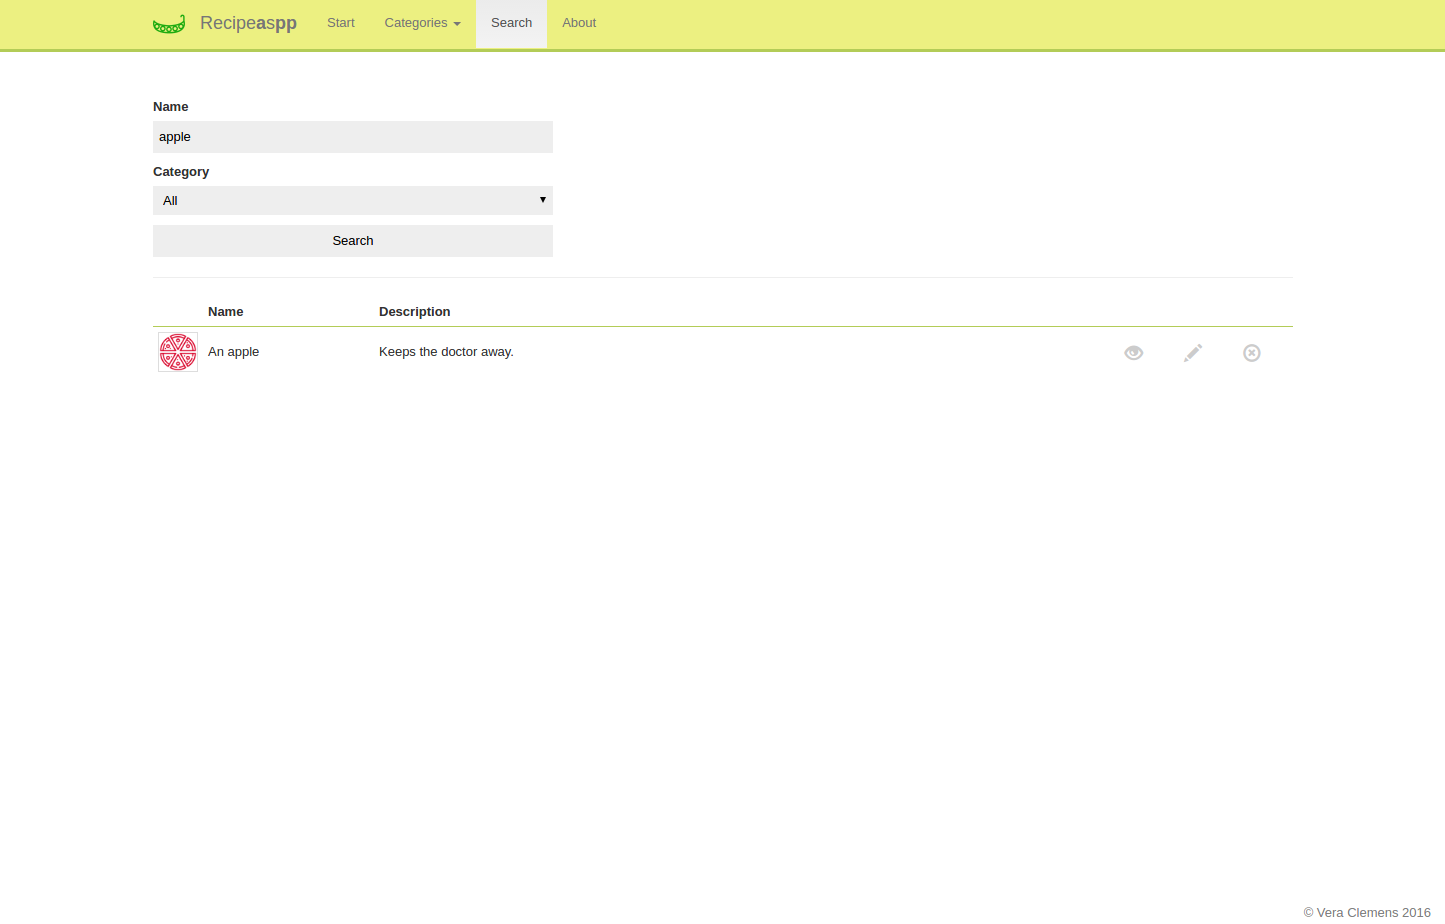
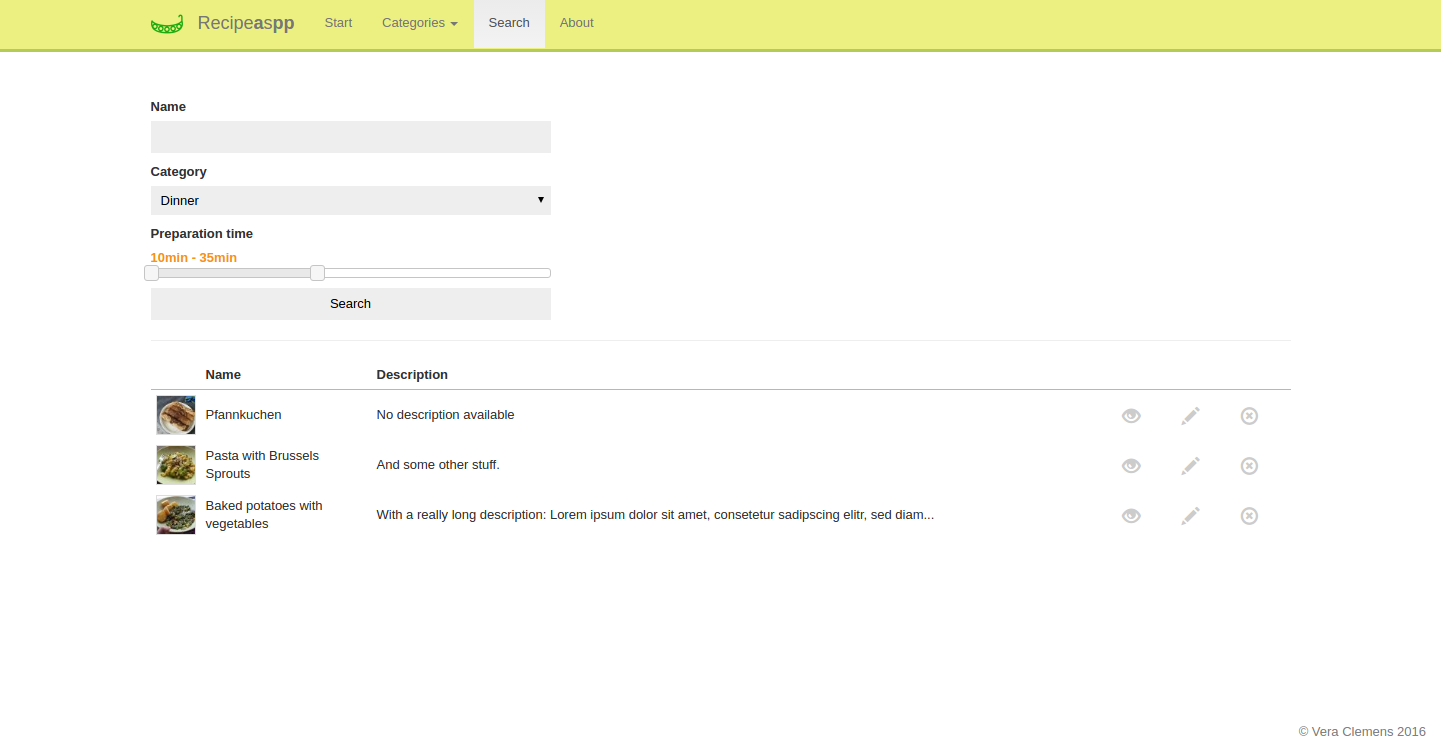
Add preparation time slider to search

diff --git a/app/assets/stylesheets/application.scss b/app/assets/stylesheets/application.scss
@@ -34,6 +34,10 @@ input, textarea, select {
   width: 400px;
 }
 
+#slider {
+  width: 400px;
+}
+
 textarea {
   height: 250px;
 }

diff --git a/app/controllers/pages_controller.rb b/app/controllers/pages_controller.rb
@@ -1,9 +1,24 @@
 class PagesController < ApplicationController
   def search
-    if params[:category_id].blank?
-      @recipes = Recipe.where("name LIKE :name", name: "%#{params[:name]}%")
-    else
-      @recipes = Recipe.where("category_id = :cid AND name LIKE :name", cid: params[:category_id], name: "%#{params[:name]}%")
+    @minPreparationTime = Recipe.minimum(:preparation_time)
+    @maxPreparationTime = Recipe.maximum(:preparation_time)
+    @minPreparationTimeSelected = params[:preparation_time_min] || @minPreparationTime
+    @maxPreparationTimeSelected = params[:preparation_time_max] || @maxPreparationTime
+
+    @recipes = Recipe.where("name LIKE :name AND
+                                (
+                                    (
+                                    preparation_time >= :preparation_time_min AND
+                                    preparation_time <= :preparation_time_max
+                                    )
+                                  OR preparation_time IS NULL
+                                )",
+                                name: "%#{params[:name]}%",
+                                preparation_time_min: @minPreparationTimeSelected,
+                                preparation_time_max: @maxPreparationTimeSelected)
+
+    if !params[:category_id].blank?
+      @recipes = @recipes.where("category_id = :cid", cid: params[:category_id])
     end
   end
 

diff --git a/README.md b/README.md
@@ -34,7 +34,7 @@ You can upload new recipes with a picture and a description.
 
 ![Screenshot](/app/assets/images/screenshot_search.png?raw=true "Screenshot of the search page")
 
-You can search through uploaded recipes and filter by category and/or name.
+You can search through uploaded recipes and filter by category, name and/or preparation time.
 
 # Upcoming Features
 
